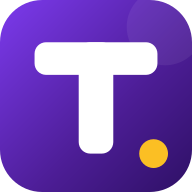
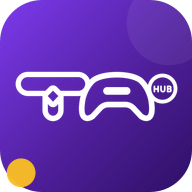
Add files via upload

diff --git a/index.html b/index.html
@@ -10,8 +10,9 @@
 <meta name="apple-mobile-web-app-title" content="Taplay Connect">
 <title>TaplayCafe Connect</title>
 <link rel="manifest" href="manifest.webmanifest">
-<link rel="icon" type="image/png" href="icon-192.png">
-<link rel="apple-touch-icon" href="icon-192.png">
+<link rel="icon" type="image/png" sizes="64x64" href="favicon-64.png">
+<link rel="icon" type="image/png" sizes="192x192" href="icon-192.png">
+<link rel="apple-touch-icon" sizes="180x180" href="apple-touch-icon.png">
 <style>
   :root { --ungu: #4C1D95; --ungu-gelap: #2E1065; --emas: #FBBF24; --dasar: #F5F3FF; }
   * { box-sizing: border-box; }
@@ -23,6 +24,7 @@
   #muat.selesai { opacity: 0; pointer-events: none; }
   #muat .logo { font-weight: 800; letter-spacing: 3px; font-size: 20px; display: flex; align-items: center; gap: 10px; }
   #muat .logo i { width: 9px; height: 9px; border-radius: 50%; background: var(--emas); display: inline-block; }
+  #muat .logo-img { display: block; width: min(250px, 66vw); height: auto; }
   #muat .titik { width: 34px; height: 34px; border-radius: 50%; border: 3px solid rgba(255,255,255,.25); border-top-color: var(--emas); animation: putar .8s linear infinite; }
   #muat p { margin: 0; font-size: 13px; opacity: .85; text-align: center; padding: 0 28px; line-height: 1.5; }
   #muat a { color: var(--emas); }
@@ -60,7 +62,7 @@
 <iframe id="app" title="TaplayCafe Connect" allow="geolocation *; clipboard-write *" referrerpolicy="no-referrer-when-downgrade"></iframe>
 
 <div id="muat">
-  <div class="logo">TAPLAYCAFE<i></i></div>
+  <img class="logo-img" id="logoMuat" src="logo-muat.png" width="700" height="299" alt="TAPLAYCAFE Playstation &amp; Cafe">
   <div class="titik" id="titik"></div>
   <p id="pesanMuat">Memuat aplikasi...</p>
 </div>
@@ -91,12 +93,19 @@
   'use strict';
 
   /* =====================================================================
-     PENGATURAN: isi dengan alamat /exec dari Deploy > Web app di Apps Script.
+     PENGATURAN: alamat /exec dari Deploy > Web app di Apps Script.
+     Ganti HANYA bila membuat deployment baru (alamat berubah).
      ===================================================================== */
   var APPS_SCRIPT_URL = 'https://script.google.com/macros/s/AKfycbzSf0fS3DtqvwCROTrcdcZF9U-AkTlNeRUS3rwvcIFY1tYgnjQMY50YpP8YNAn-h-n60Q/exec';
 
   var MAKS_SISI = 1280;          // sisi terpanjang foto (piksel)
   var MAKS_BYTE = 330 * 1024;    // target ukuran berkas JPEG
+
+  // Bila gambar logo gagal dimuat, tampilkan tulisan biasa agar layar muat tetap rapi.
+  document.getElementById('logoMuat').addEventListener('error', function () {
+    var t = document.createElement('div'); t.className = 'logo'; t.innerHTML = 'TAPLAYCAFE<i></i>';
+    this.replaceWith(t);
+  });
 
   var frame = document.getElementById('app');
   var muat = document.getElementById('muat');
